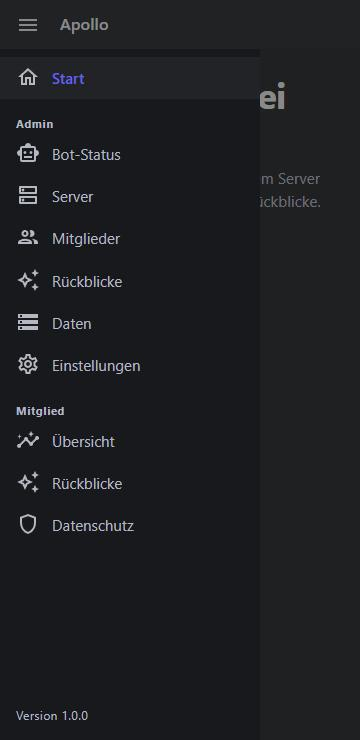
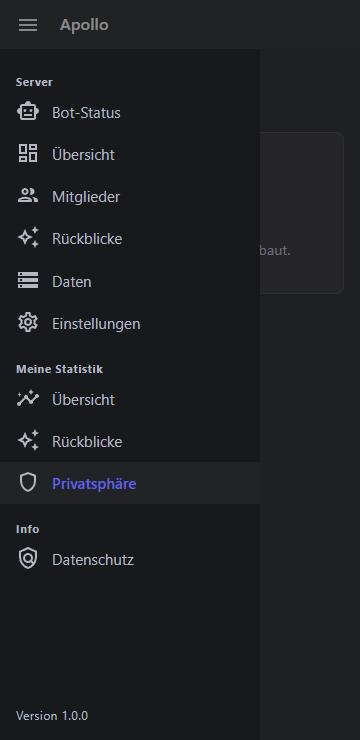
fix(web): align nav routes and labels with wireframes; make web test host DB-ready

diff --git a/src/Apollo.Web.Client/Layout/NavigationAreas.cs b/src/Apollo.Web.Client/Layout/NavigationAreas.cs
@@ -2,29 +2,32 @@ using MudBlazor;
 
 namespace Apollo.Web.Client.Layout;
 
-/// <summary>The areas of the app (scope §7.2), as shown in the navigation drawer.</summary>
+/// <summary>
+/// The areas of the app (scope §7.2), as shown in the navigation drawer. Routes, labels and grouping follow the
+/// wireframes in <c>docs/design/wireframes</c> (#27).
+/// </summary>
 public static class NavigationAreas
 {
     public static IReadOnlyList<NavigationSection> Sections { get; } =
     [
-        new(null,
+        new("Nav_SectionServer",
         [
-            new("", "Nav_Home", Icons.Material.Outlined.Home),
-        ]),
-        new("Nav_SectionAdmin",
-        [
-            new("admin/bot-status", "Nav_BotStatus", Icons.Material.Outlined.SmartToy),
-            new("admin/server", "Nav_Server", Icons.Material.Outlined.Dns),
-            new("admin/members", "Nav_Members", Icons.Material.Outlined.People),
-            new("admin/recaps", "Nav_AdminRecaps", Icons.Material.Outlined.AutoAwesome),
-            new("admin/data", "Nav_Data", Icons.Material.Outlined.Storage),
-            new("admin/settings", "Nav_Settings", Icons.Material.Outlined.Settings),
+            new("admin", "Nav_BotStatus", "Nav_BotStatus", Icons.Material.Outlined.SmartToy),
+            new("admin/dashboard", "Nav_ServerOverview", "Page_ServerOverview", Icons.Material.Outlined.Dashboard),
+            new("admin/members", "Nav_Members", "Nav_Members", Icons.Material.Outlined.People),
+            new("admin/recaps", "Nav_ServerRecaps", "Page_ServerRecaps", Icons.Material.Outlined.AutoAwesome),
+            new("admin/data", "Nav_Data", "Nav_Data", Icons.Material.Outlined.Storage),
+            new("admin/settings", "Nav_Settings", "Nav_Settings", Icons.Material.Outlined.Settings),
         ]),
         new("Nav_SectionMember",
         [
-            new("me", "Nav_Overview", Icons.Material.Outlined.Insights),
-            new("me/recaps", "Nav_MemberRecaps", Icons.Material.Outlined.AutoAwesome),
-            new("me/privacy", "Nav_Privacy", Icons.Material.Outlined.Shield),
+            new("me", "Nav_MemberOverview", "Page_MemberOverview", Icons.Material.Outlined.Insights),
+            new("me/recaps", "Nav_MemberRecaps", "Page_MemberRecaps", Icons.Material.Outlined.AutoAwesome),
+            new("me/privacy", "Nav_MemberPrivacy", "Nav_MemberPrivacy", Icons.Material.Outlined.Shield),
+        ]),
+        new("Nav_SectionInfo",
+        [
+            new("datenschutz", "Nav_PrivacyPolicy", "Nav_PrivacyPolicy", Icons.Material.Outlined.Policy),
         ]),
     ];
 

diff --git a/tests/Apollo.Web.Client.Tests/RoutesTests.cs b/tests/Apollo.Web.Client.Tests/RoutesTests.cs
@@ -8,7 +8,20 @@ namespace Apollo.Web.Client.Tests;
 
 public sealed class RoutesTests : ApolloTestContext
 {
-    public static TheoryData<string> PlaceholderRoutes => [.. NavigationAreas.Items.Select(i => i.Href).Where(h => h.Length > 0)];
+    /// <summary>Every navigation route with its page heading from the wireframes (#27).</summary>
+    public static TheoryData<string, string> PlaceholderRoutes => new()
+    {
+        { "admin", "Bot-Status" },
+        { "admin/dashboard", "Server-Übersicht" },
+        { "admin/members", "Mitglieder" },
+        { "admin/recaps", "Server-Rückblicke" },
+        { "admin/data", "Daten" },
+        { "admin/settings", "Einstellungen" },
+        { "me", "Meine Statistik" },
+        { "me/recaps", "Meine Rückblicke" },
+        { "me/privacy", "Privatsphäre" },
+        { "datenschutz", "Datenschutz" },
+    };
 
     [Fact]
     public void Router_WhenRouteUnknown_ShouldShowNotFoundPage()
@@ -30,12 +43,12 @@ public sealed class RoutesTests : ApolloTestContext
 
     [Theory]
     [MemberData(nameof(PlaceholderRoutes))]
-    public void Router_WhenRouteIsNavigationArea_ShouldShowPlaceholderWithAreaName(string href)
+    public void Router_WhenRouteIsNavigationArea_ShouldShowPlaceholderWithPageHeading(string href, string heading)
     {
         var routes = RenderAt(href);
 
         routes.WaitForAssertion(() => routes.FindComponents<Placeholder>().ShouldHaveSingleItem());
-        routes.Find("h1").TextContent.Trim().ShouldNotBeNullOrWhiteSpace();
+        routes.Find("h1").TextContent.Trim().ShouldBe(heading);
         routes.Find(".apollo-empty-title").TextContent.Trim().ShouldBe("Noch nicht verfügbar");
     }
 

diff --git a/tests/Apollo.Web.Client.Tests/Layout/NavigationAreasTests.cs b/tests/Apollo.Web.Client.Tests/Layout/NavigationAreasTests.cs
@@ -5,17 +5,25 @@ namespace Apollo.Web.Client.Tests.Layout;
 public sealed class NavigationAreasTests
 {
     [Theory]
-    [InlineData("admin/bot-status", "Nav_BotStatus")]
-    [InlineData("/me/privacy/", "Nav_Privacy")]
-    [InlineData("ME?tab=1#top", "Nav_Overview")]
-    [InlineData("", "Nav_Home")]
+    [InlineData("admin", "Nav_BotStatus")]
+    [InlineData("admin/dashboard", "Nav_ServerOverview")]
+    [InlineData("/me/privacy/", "Nav_MemberPrivacy")]
+    [InlineData("ME?tab=1#top", "Nav_MemberOverview")]
+    [InlineData("datenschutz", "Nav_PrivacyPolicy")]
     public void Find_WhenPathBelongsToArea_ShouldReturnItsEntry(string path, string expectedLabelKey) =>
         NavigationAreas.Find(path).ShouldNotBeNull().LabelKey.ShouldBe(expectedLabelKey);
 
-    [Fact]
-    public void Find_WhenPathIsUnknown_ShouldReturnNull() => NavigationAreas.Find("admin/unknown").ShouldBeNull();
+    [Theory]
+    [InlineData("admin/unknown")]
+    [InlineData("")]
+    public void Find_WhenPathIsNoArea_ShouldReturnNull(string path) => NavigationAreas.Find(path).ShouldBeNull();
 
     [Fact]
-    public void Items_ShouldHaveUniqueRoutes() =>
-        NavigationAreas.Items.Select(i => i.Href).ShouldBeUnique();
+    public void Items_ShouldMatchWireframeRouteMap() =>
+        NavigationAreas.Items.Select(i => i.Href).ShouldBe(
+        [
+            "admin", "admin/dashboard", "admin/members", "admin/recaps", "admin/data", "admin/settings",
+            "me", "me/recaps", "me/privacy",
+            "datenschutz",
+        ]);
 }

diff --git a/tests/Apollo.Web.Tests/ApolloWebApplicationFactory.cs b/tests/Apollo.Web.Tests/ApolloWebApplicationFactory.cs
@@ -1,12 +1,21 @@
 using Microsoft.AspNetCore.Hosting;
 using Microsoft.AspNetCore.Mvc.Testing;
+using Microsoft.Extensions.Hosting;
 
 namespace Apollo.Web.Tests;
 
-/// <summary>In-memory <c>Apollo.Web</c> host for endpoint tests, running in the <see cref="EnvironmentName"/> environment.</summary>
+/// <summary>
+/// In-memory <c>Apollo.Web</c> host for endpoint tests. It runs as Development, so the host skips startup steps
+/// meant for deployed environments (e.g. waiting for migrations), and gets a dummy <c>apollo</c> connection string
+/// so the DbContext registration resolves. No test opens a database connection.
+/// </summary>
 public sealed class ApolloWebApplicationFactory : WebApplicationFactory<Program>
 {
-    public const string EnvironmentName = "Testing";
+    public static readonly string EnvironmentName = Environments.Development;
 
-    protected override void ConfigureWebHost(IWebHostBuilder builder) => builder.UseEnvironment(EnvironmentName);
+    protected override void ConfigureWebHost(IWebHostBuilder builder)
+    {
+        builder.UseEnvironment(EnvironmentName);
+        builder.UseSetting("ConnectionStrings:apollo", "Host=localhost;Database=apollo_web_tests");
+    }
 }

diff --git a/tests/Apollo.Web.Client.Tests/Layout/MainLayoutTests.cs b/tests/Apollo.Web.Client.Tests/Layout/MainLayoutTests.cs
@@ -21,11 +21,12 @@ public sealed class MainLayoutTests : ApolloTestContext
         layout.Find(".apollo-menu-button").GetAttribute("aria-label").ShouldBe("Menü ein- oder ausblenden");
         layout.FindAll(".mud-nav-link").Select(l => l.TextContent.Trim()).ShouldBe(
         [
-            "Start",
-            "Bot-Status", "Server", "Mitglieder", "Rückblicke", "Daten", "Einstellungen",
-            "Übersicht", "Rückblicke", "Datenschutz",
+            "Bot-Status", "Übersicht", "Mitglieder", "Rückblicke", "Daten", "Einstellungen",
+            "Übersicht", "Rückblicke", "Privatsphäre",
+            "Datenschutz",
         ]);
-        layout.FindAll(".apollo-nav-section").Select(s => s.TextContent.Trim()).ShouldBe(["Admin", "Mitglied"]);
+        layout.FindAll(".apollo-nav-section").Select(s => s.TextContent.Trim()).ShouldBe(["Server", "Meine Statistik", "Info"]);
+        layout.Find(".apollo-brand").GetAttribute("href").ShouldBe("/");
         layout.Find(".apollo-body").TextContent.Trim().ShouldBe("Inhalt");
     }
 

diff --git a/src/Apollo.Web.Client/Layout/NavigationItem.cs b/src/Apollo.Web.Client/Layout/NavigationItem.cs
@@ -1,7 +1,8 @@
 namespace Apollo.Web.Client.Layout;
 
 /// <summary>One entry in the navigation drawer.</summary>
-/// <param name="Href">Base-relative route, e.g. <c>admin/bot-status</c>; empty for the home page.</param>
-/// <param name="LabelKey">Key of the label in <c>Strings.resx</c>.</param>
+/// <param name="Href">Base-relative route, e.g. <c>admin/members</c>.</param>
+/// <param name="LabelKey">Key of the drawer label in <c>Strings.resx</c>.</param>
+/// <param name="TitleKey">Key of the page heading in <c>Strings.resx</c> (can be more specific than the label).</param>
 /// <param name="Icon">MudBlazor icon.</param>
-public sealed record NavigationItem(string Href, string LabelKey, string Icon);
+public sealed record NavigationItem(string Href, string LabelKey, string TitleKey, string Icon);

diff --git a/tests/Apollo.Web.Client.Tests/Resources/StringsTests.cs b/tests/Apollo.Web.Client.Tests/Resources/StringsTests.cs
@@ -34,7 +34,7 @@ public sealed partial class StringsTests : ApolloTestContext
         var keys = ResourceKeys();
 
         var navigationKeys = NavigationAreas.Sections
-            .SelectMany(s => s.Items.Select(i => i.LabelKey).Append(s.TitleKey))
+            .SelectMany(s => s.Items.SelectMany(i => new[] { i.LabelKey, i.TitleKey }).Append(s.TitleKey))
             .OfType<string>();
 
         navigationKeys.Where(k => !keys.Contains(k)).ShouldBeEmpty();
